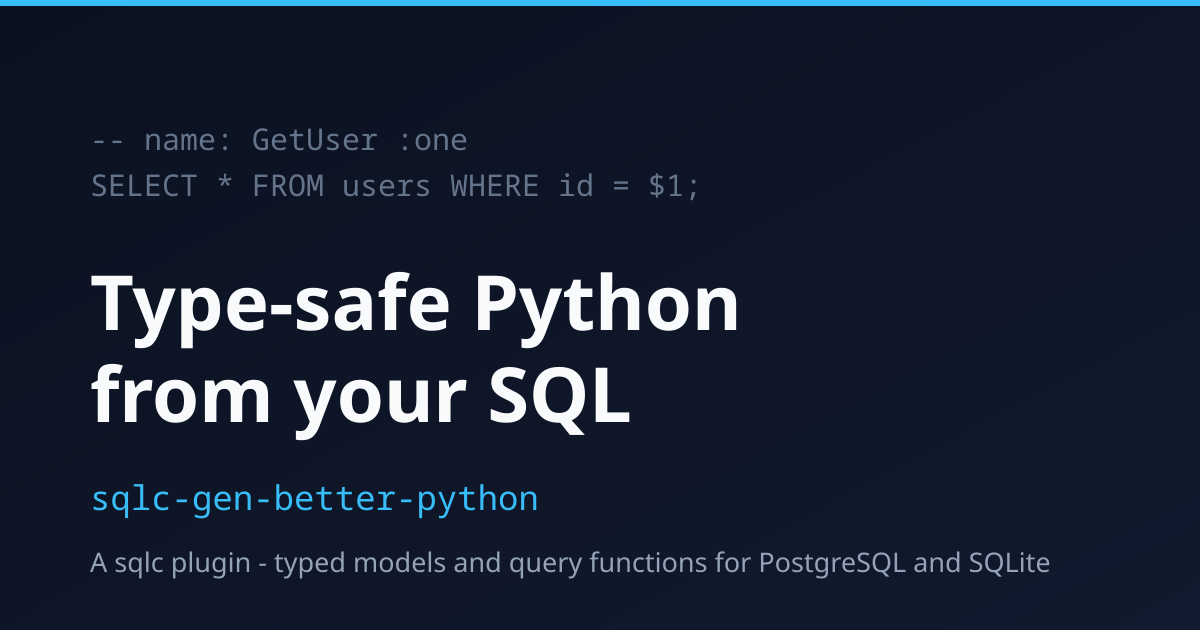
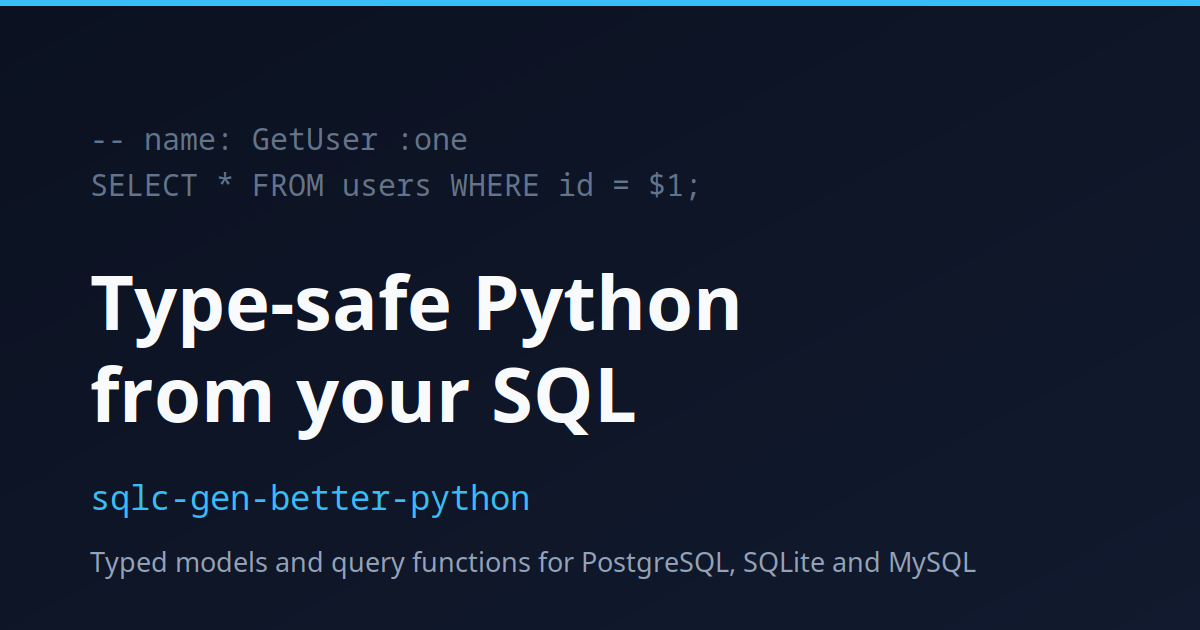
docs: list MySQL and its drivers alongside PostgreSQL and SQLite (#267)
The 0.9.0 MySQL support was missing from the docs landing pages, the guide
index, the README feature list, and the social preview card.

The og-image tagline drops the "A sqlc plugin - " prefix so the third engine
fits at the same font size.

diff --git a/docs/content/docs/_index.md b/docs/content/docs/_index.md
@@ -23,10 +23,10 @@ it.
 ## Explore by feature
 
 {{< cards >}}
-  {{< card link="guide/drivers" title="Drivers" icon="database" subtitle="asyncpg, psycopg, aiosqlite, sqlite3, and turso." >}}
+  {{< card link="guide/drivers" title="Drivers" icon="database" subtitle="asyncpg, psycopg, aiosqlite, sqlite3, asyncmy, pymysql, and turso." >}}
   {{< card link="guide/model-types" title="Model types" icon="cube" subtitle="dataclass, attrs, msgspec, or pydantic." >}}
   {{< card link="guide/writing-queries" title="Writing queries" icon="code" subtitle="How query annotations become typed functions." >}}
-  {{< card link="guide/enums" title="Enums" icon="collection" subtitle="PostgreSQL enums as enum.StrEnum classes." >}}
+  {{< card link="guide/enums" title="Enums" icon="collection" subtitle="PostgreSQL enum types and MySQL enum columns as enum.StrEnum classes." >}}
   {{< card link="guide/type-overrides" title="Type overrides" icon="adjustments" subtitle="Swap the Python type of a column." >}}
   {{< card link="guide/converters" title="Converters" icon="puzzle" subtitle="Your own encode/decode functions for a column." >}}
   {{< card link="guide/working-with-json" title="Working with JSON" icon="document-text" subtitle="Typed JSON columns with msgspec structs." >}}
@@ -38,8 +38,8 @@ it.
 | | |
 |---|---|
 | **Python** | 3.12 or newer |
-| **Engines** | PostgreSQL, SQLite |
-| **Drivers** | `asyncpg`, `psycopg_async`, `psycopg_sync`, `aiosqlite`, `sqlite3`, and experimental `turso_async`/`turso_sync` |
+| **Engines** | PostgreSQL, SQLite, MySQL |
+| **Drivers** | `asyncpg`, `psycopg_async`, `psycopg_sync`, `aiosqlite`, `sqlite3`, `asyncmy`, `pymysql`, and experimental `turso_async`/`turso_sync` |
 | **Model types** | `dataclass`, `attrs`, `msgspec`, `pydantic` |
 | **Docstrings** | `google`, `numpy`, `pep257`, or none |
 | **Checked with** | pyright (strict) and ruff |

diff --git a/docs/content/_index.md b/docs/content/_index.md
@@ -48,7 +48,7 @@ layout: hextra-home
   {{< hextra/feature-card
     title="Enums"
     link="docs/guide/enums"
-    subtitle="PostgreSQL enums become enum.StrEnum classes, wired through models and queries."
+    subtitle="PostgreSQL enum types and MySQL enum columns become enum.StrEnum classes, wired through models and queries."
   >}}
   {{< hextra/feature-card
     title="Type overrides & converters"
@@ -175,7 +175,7 @@ Generated code is held to the same standard as hand-written code:
 
 - **Type-checked.** Every generated file passes pyright in strict mode and ruff.
 - **Tested against real databases.** The suite runs the generated code against
-  live PostgreSQL and SQLite, across every driver and model type.
+  live PostgreSQL, SQLite, and MySQL, across every driver and model type.
 - **Deterministic.** Output is byte-identical between runs, and CI fails if a
   change would silently alter what you get.
 

diff --git a/docs/content/docs/guide/_index.md b/docs/content/docs/guide/_index.md
@@ -36,7 +36,7 @@ Start with the essentials, then dip into feature pages as you need them:
 
 {{< cards >}}
   {{< card link="configuration" title="Configuration" subtitle="The sqlc.yaml plugin block and the core options." >}}
-  {{< card link="drivers" title="Drivers" subtitle="asyncpg, psycopg, aiosqlite, sqlite3, and turso - and which query commands each supports." >}}
+  {{< card link="drivers" title="Drivers" subtitle="asyncpg, psycopg, aiosqlite, sqlite3, asyncmy, pymysql, and turso - and which query commands each supports." >}}
   {{< card link="model-types" title="Model types" subtitle="dataclass, attrs, msgspec, or pydantic models." >}}
   {{< card link="writing-queries" title="Writing queries" subtitle="How query annotations become typed Python functions." >}}
 {{< /cards >}}

diff --git a/README.md b/README.md
@@ -53,7 +53,7 @@ Questions or feedback? Join the [Discord](https://discord.gg/hikari).
   ([docs](https://sqlc-gen-better-python.rayakame.dev/docs/guide/drivers/)).
 - **Typed query functions** - one module per query file, one function per query
   ([docs](https://sqlc-gen-better-python.rayakame.dev/docs/guide/writing-queries/)).
-- **PostgreSQL enums** as `enum.StrEnum` classes
+- **PostgreSQL enum types and MySQL enum columns** as `enum.StrEnum` classes
   ([docs](https://sqlc-gen-better-python.rayakame.dev/docs/guide/enums/)).
 - **Type overrides and converters** - swap a column's Python type, or plug in your
   own encode/decode functions
